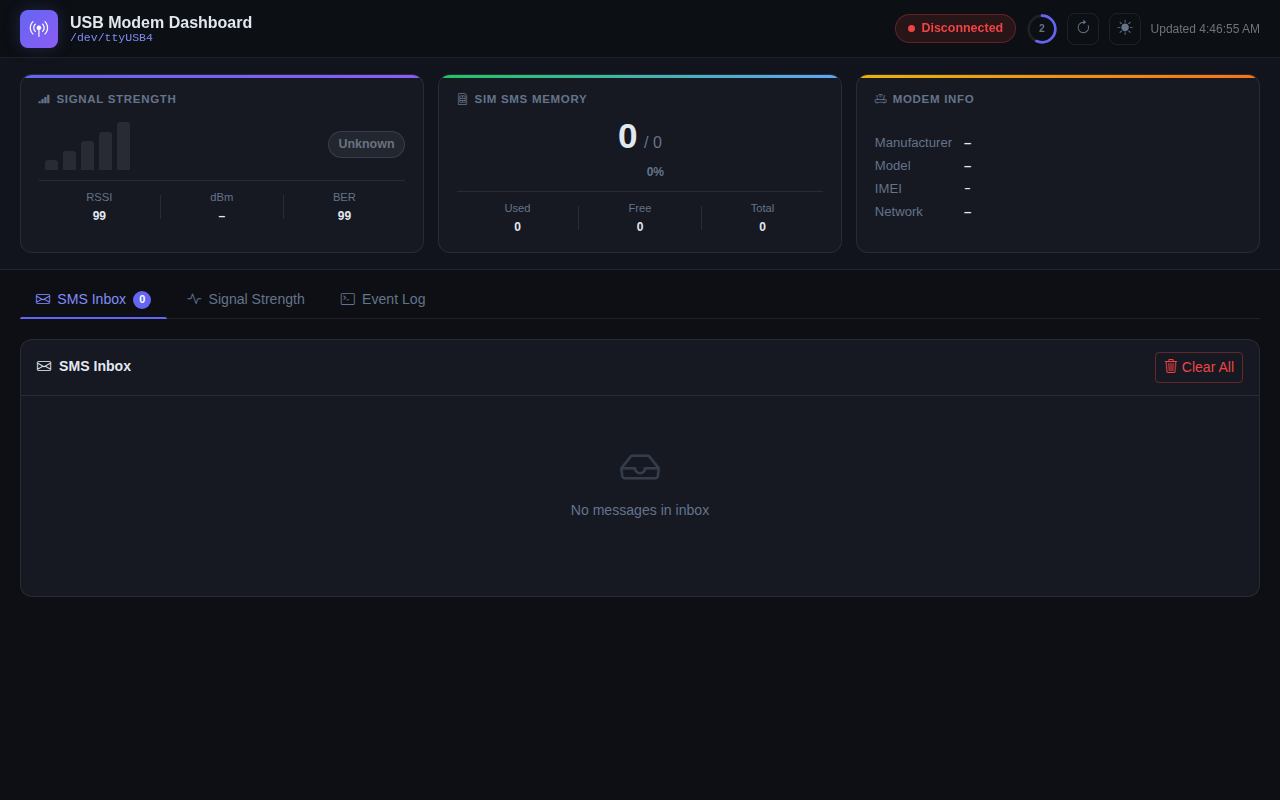
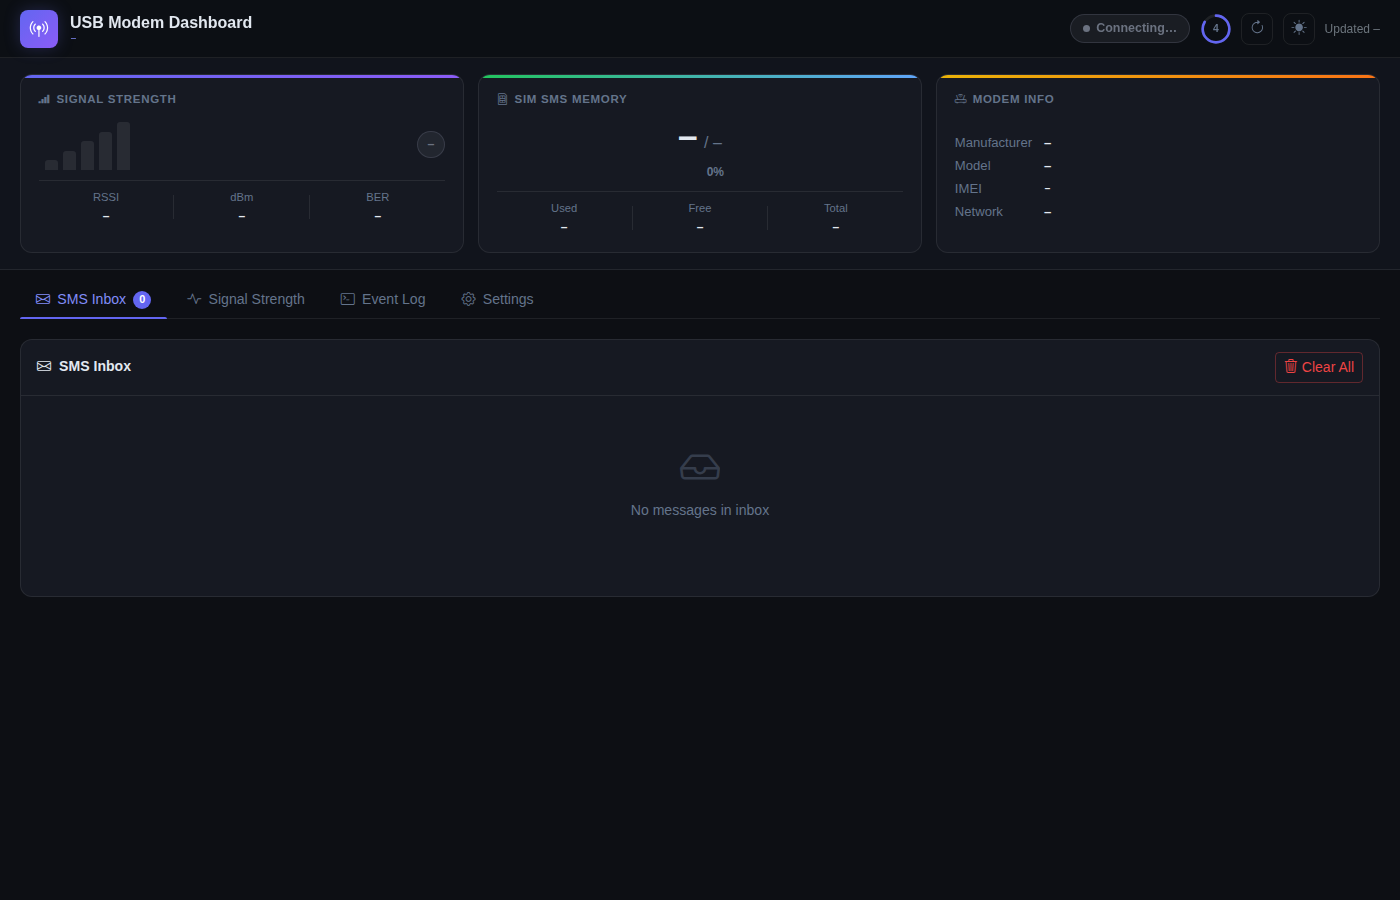
Add Settings tab and update screenshots
Agent-Logs-Url: https://github.com/masterlog80/sms-frontend2-copilot/sessions/c3153ee5-78c8-4a06-952c-abc612abc6c4

diff --git a/app/static/index.html b/app/static/index.html
@@ -180,6 +180,14 @@
         <span id="logBadge" class="tab-badge tab-badge--warn d-none">!</span>
       </button>
     </li>
+    <li class="nav-item" role="presentation">
+      <button class="dash-tab-btn" id="tab-settings"
+              data-bs-toggle="tab" data-bs-target="#pane-settings"
+              type="button" role="tab">
+        <i class="bi bi-gear"></i>
+        <span>Settings</span>
+      </button>
+    </li>
   </ul>
 
   <!-- Tab panes -->
@@ -247,6 +255,21 @@
         </div>
       </div>
     </div><!-- /pane-log -->
+
+    <!-- ── Settings ──────────────────────────────────────────────────── -->
+    <div class="tab-pane fade" id="pane-settings" role="tabpanel">
+      <div class="panel">
+        <div class="panel-hdr">
+          <span><i class="bi bi-gear me-2"></i>Settings</span>
+        </div>
+        <div class="panel-body p-4">
+          <div class="empty-state py-5">
+            <i class="bi bi-gear display-5"></i>
+            <p>Settings will be available here soon.</p>
+          </div>
+        </div>
+      </div>
+    </div><!-- /pane-settings -->
 
   </div><!-- /tab-content -->
 </div><!-- /main-content -->
